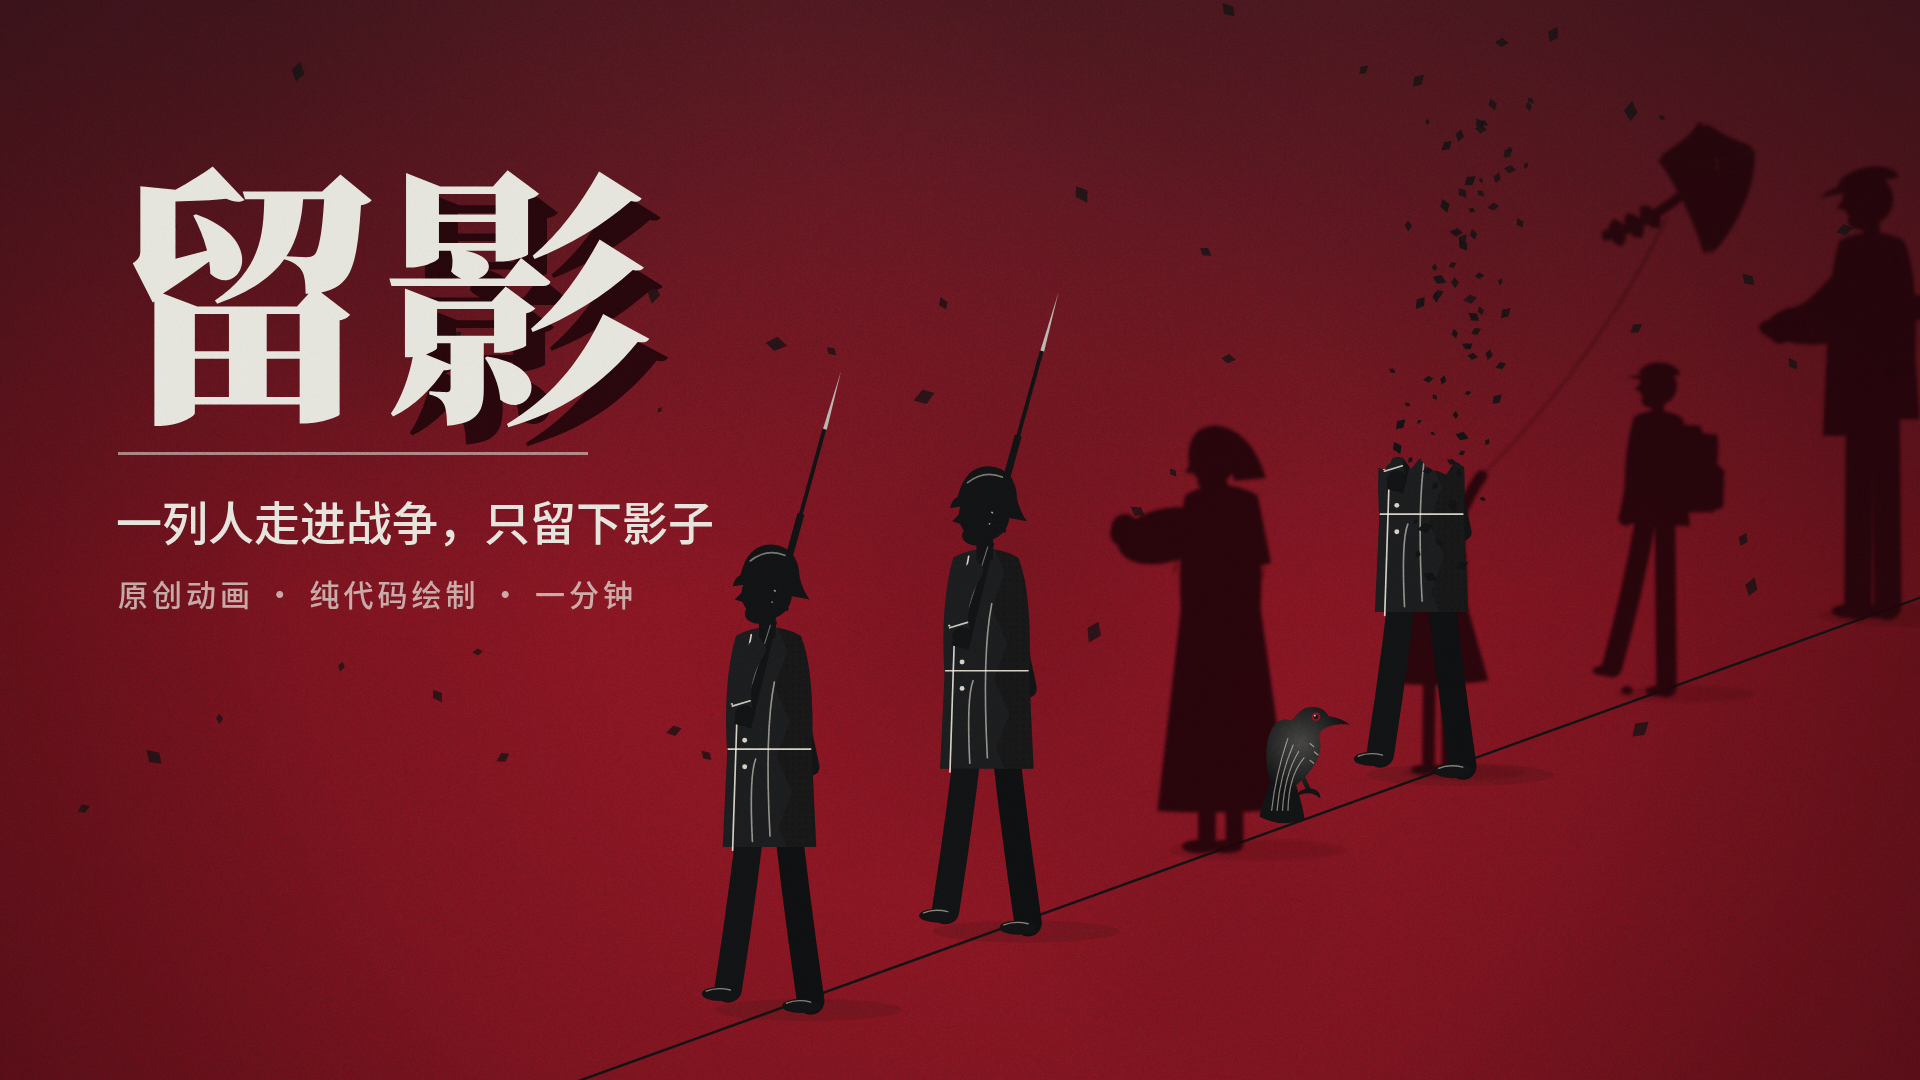
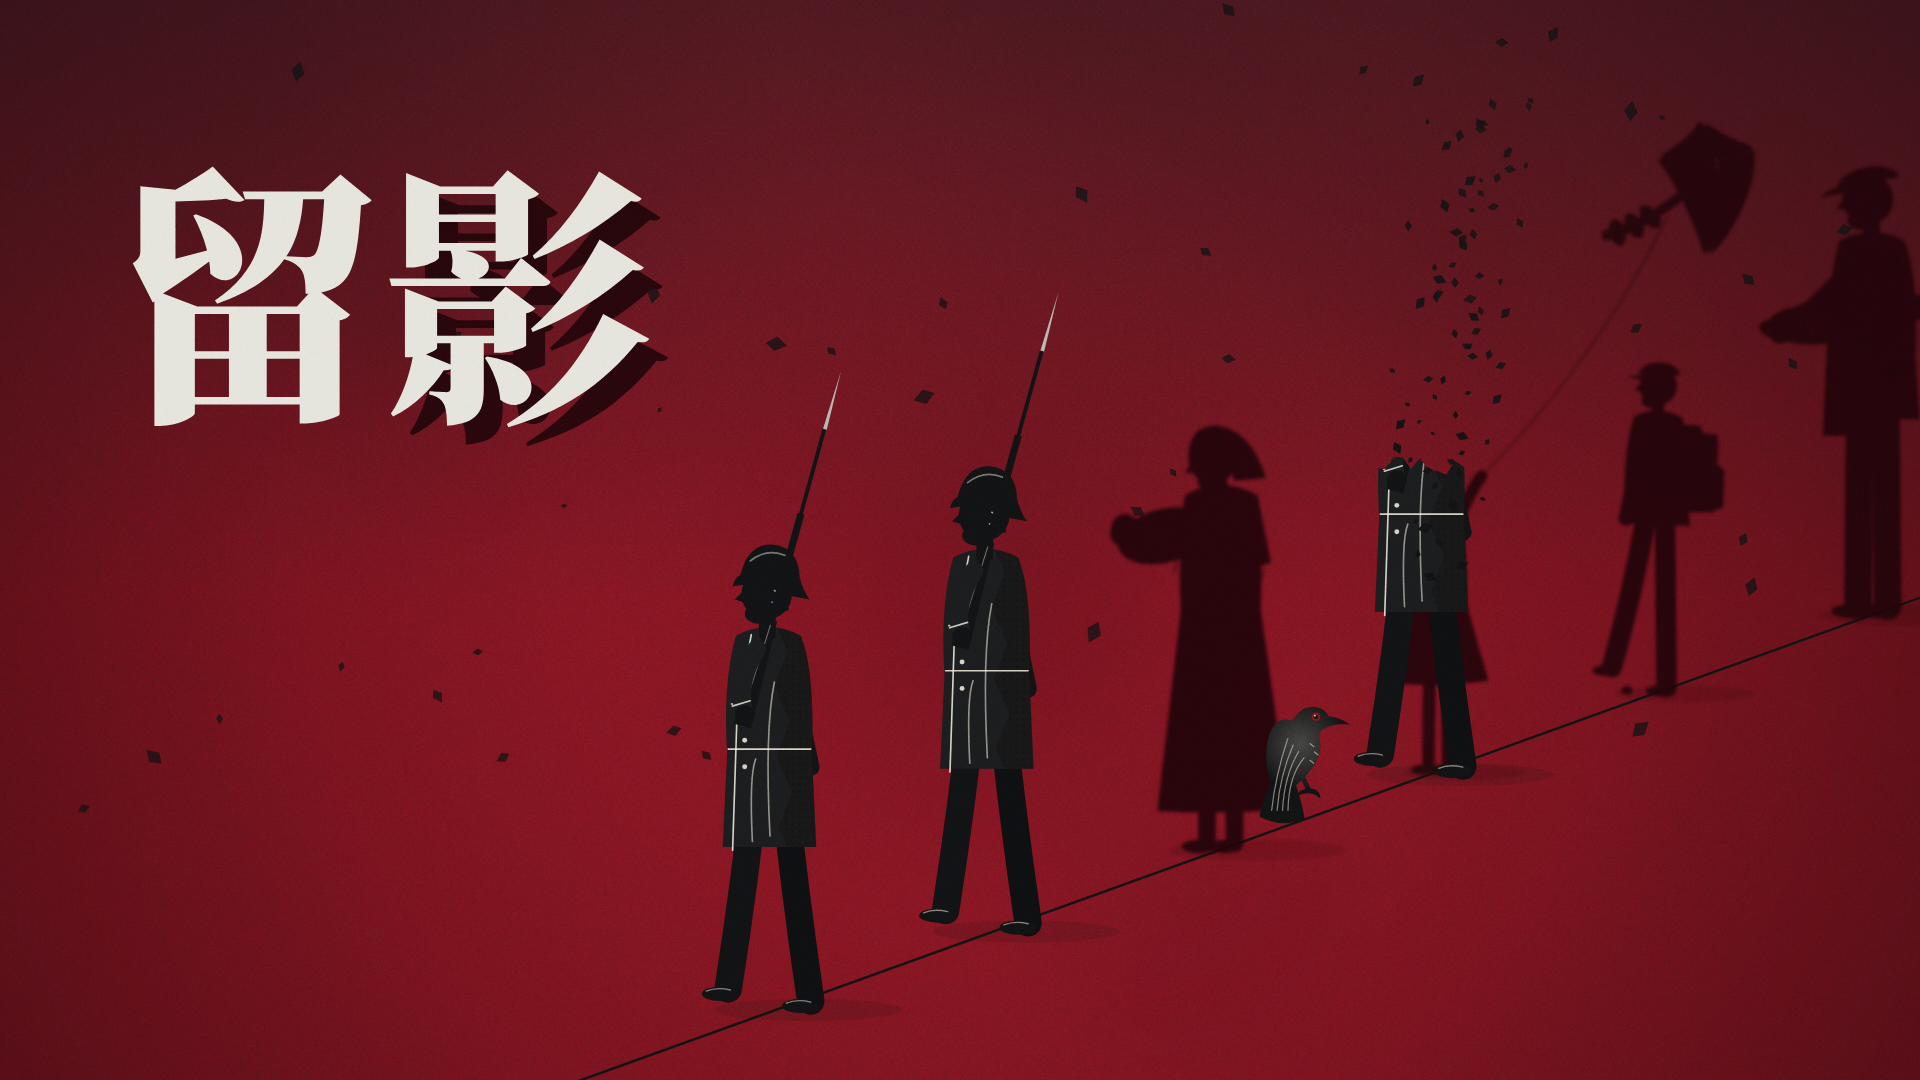
Covers: remove the small subtitle lines, keep only 留影 (and 别眨眼 on Douyin); drop the now-unused sans font

Changed region(s): [[0.0625, 0.4583, 0.25, 0.5806], [0.25, 0.4583, 0.375, 0.5806]]

diff --git a/crow-film/src/cover.js b/crow-film/src/cover.js
@@ -7,7 +7,6 @@ import { BEAT } from './draw.js';
 
 export const TITLE = '留影';
 const SERIF = '"CoverSerif", "Noto Serif SC", "Source Han Serif SC", "Songti SC", STSong, SimSun, serif';
-const SANS = '"CoverSans", "Noto Sans SC", "Source Han Sans SC", "PingFang SC", "Microsoft YaHei", sans-serif';
 const CREAM = '#e6e5dd';
 const SHADOW = '#21050a';
 
@@ -165,9 +164,6 @@ export function renderBili(canvas) {
   });
   // 文字放在左上，避开右下角的时长标记
   title(g, 112, 400, 270);
-  g.fillStyle = 'rgba(230,229,221,0.55)'; g.fillRect(118, 452, 470, 3);
-  text(g, '一列人走进战争，只留下影子', 116, 540, { font: SANS, size: 46, weight: 500 });
-  text(g, '原创动画 · 纯代码绘制 · 一分钟', 118, 606, { font: SANS, size: 30, weight: 500, spacing: 4, alpha: 0.72 });
   grain(g, 1920, 1080);
 }
 
@@ -193,18 +189,16 @@ export function renderDouyin(canvas) {
     crow: { k: 2.5, face: 1 },
   });
   text(g, '别眨眼', 540, 470, { font: SERIF, size: 172, align: 'center', spacing: 10 });
-  text(g, '数一数，还剩几个人', 540, 590, { font: SANS, size: 66, weight: 500, align: 'center', spacing: 2 });
   title(g, 540, 1610, 120, 'center');
   grain(g, 1080, 1920);
 }
 
-// 封面用的字体（思源 / Noto CJK，SIL OFL 1.1）。字体文件较大（12 MB + 8 MB），不放进仓库：
+// 封面用的字体（思源宋体 / Noto Serif SC，SIL OFL 1.1）。字体文件较大（12 MB），不放进仓库：
 // 先找本地的 /.fonts 或 fonts/，找不到就从 notofonts/noto-cjk 仓库直接下载，再不行用系统中文字体
 const NOTO = 'https://raw.githubusercontent.com/notofonts/noto-cjk/main/';
 export async function loadFonts() {
   const tries = [
     ['CoverSerif', ['/.fonts/NotoSerifSC-Black.otf', 'fonts/NotoSerifSC-Black.otf', NOTO + 'Serif/SubsetOTF/SC/NotoSerifSC-Black.otf'], '900'],
-    ['CoverSans', ['/.fonts/NotoSansSC-Medium.otf', 'fonts/NotoSansSC-Medium.otf', NOTO + 'Sans/SubsetOTF/SC/NotoSansSC-Medium.otf'], '500'],
   ];
   for (const [name, urls, weight] of tries) {
     for (const u of urls) {

diff --git a/crow-film/README.md b/crow-film/README.md
@@ -22,7 +22,7 @@
 - `cover/bilibili_1920x1080.png`、`cover/douyin_1080x1920.png`：B站和抖音封面
 - `cover.html`、`src/cover.js`：封面的绘制代码，打开 `cover.html` 可以重新生成并下载 PNG
 
-封面字体是思源宋体 Black 和思源黑体 Medium（Noto Serif SC / Noto Sans SC）。字体文件太大，没有放进仓库：`cover.html` 会先找 `crow-film/fonts/` 里的 `NotoSerifSC-Black.otf` 和 `NotoSansSC-Medium.otf`，找不到就从 [notofonts/noto-cjk](https://github.com/notofonts/noto-cjk) 下载。
+封面字体是思源宋体 Black（Noto Serif SC）。字体文件太大，没有放进仓库：`cover.html` 会先找 `crow-film/fonts/NotoSerifSC-Black.otf`，找不到就从 [notofonts/noto-cjk](https://github.com/notofonts/noto-cjk) 下载。
 
 导出按钮会逐帧渲染再编码，不会掉帧。需要 Chrome 或 Edge，并且页面通过 `https` 或 `localhost` 打开；条件不满足时会退回实时录制。
 
@@ -46,6 +46,6 @@ python3 -m http.server 8000
 
 原图的方形背景已去掉，颜色改为黑色。公开发布成片时，请在片尾或简介中注明以上署名。
 
-封面字体：Noto Serif SC、Noto Sans SC（Google / Adobe），许可证 [SIL Open Font License 1.1](https://openfontlicense.org)。
+封面字体：Noto Serif SC（Google / Adobe），许可证 [SIL Open Font License 1.1](https://openfontlicense.org)。
 
 配乐：Kam Ridr - the other side of paradise。公开发布前请确认音乐授权。
